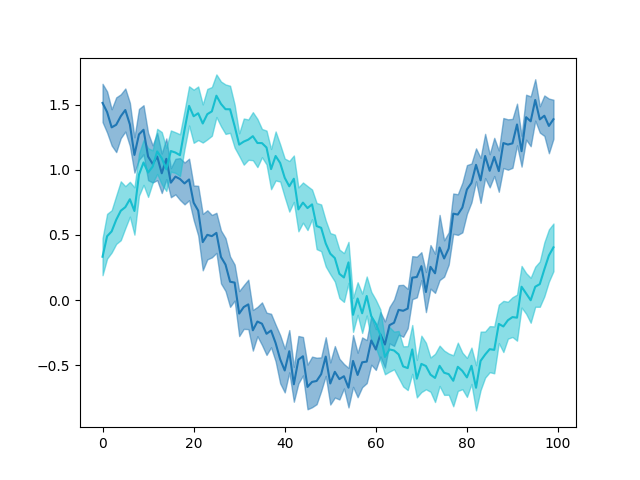
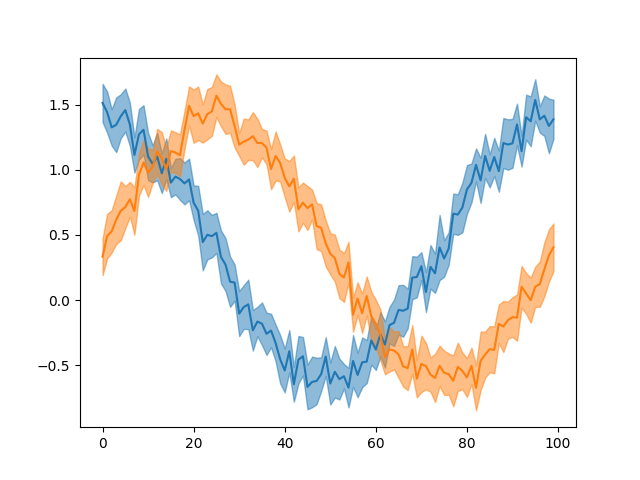
Optional color normalization in GroupedSeriesParade

Changed region(s): [[0.1562, 0.1562, 0.875, 0.8438]]

diff --git a/docs/searchindex.js b/docs/searchindex.js
@@ -1,1 +1,1 @@
-Search.setIndex({docnames:["data","groupedscalars","groupedseries","index","scalars","series","ungroupedscalars","ungroupedseries","utils"],envversion:{"sphinx.domains.c":2,"sphinx.domains.changeset":1,"sphinx.domains.citation":1,"sphinx.domains.cpp":3,"sphinx.domains.index":1,"sphinx.domains.javascript":2,"sphinx.domains.math":2,"sphinx.domains.python":2,"sphinx.domains.rst":2,"sphinx.domains.std":1,sphinx:56},filenames:["data.rst","groupedscalars.rst","groupedseries.rst","index.rst","scalars.rst","series.rst","ungroupedscalars.rst","ungroupedseries.rst","utils.rst"],objects:{"plotszoo.data":{DataCollection:[0,0,1,""],WandbData:[0,0,1,""]},"plotszoo.data.DataCollection":{align_series:[0,1,1,""],are_series_aligned:[0,1,1,""],create_categorical:[0,1,1,""],create_scalar_from_series:[0,1,1,""],dropna:[0,1,1,""],dropna_series:[0,1,1,""],fillna_series:[0,1,1,""],is_both:[0,1,1,""],is_empty:[0,1,1,""],is_scalars:[0,1,1,""],is_series:[0,1,1,""],rolling_series:[0,1,1,""],set_scalars:[0,1,1,""],set_series:[0,1,1,""]},"plotszoo.data.WandbData":{pull_scalars:[0,1,1,""],pull_series:[0,1,1,""]},"plotszoo.scalars":{ScalarsParallelCoordinates:[6,0,1,""],ScalarsScatterCumulative:[6,0,1,""]},"plotszoo.scalars.ScalarsParallelCoordinates":{plot:[6,1,1,""]},"plotszoo.scalars.ScalarsScatterCumulative":{plot:[6,1,1,""]},"plotszoo.scalars.grouped":{GroupedScalarsBarchart:[1,0,1,""]},"plotszoo.scalars.grouped.GroupedScalarsBarchart":{plot:[1,1,1,""]},"plotszoo.series":{SeriesParade:[7,0,1,""]},"plotszoo.series.SeriesParade":{plot:[7,1,1,""]},"plotszoo.series.grouped":{GroupedSeriesParade:[2,0,1,""]},"plotszoo.series.grouped.GroupedSeriesParade":{plot:[2,1,1,""]},"plotszoo.utils":{savefig:[8,3,1,""]},plotszoo:{utils:[8,2,0,"-"]}},objnames:{"0":["py","class","Python class"],"1":["py","method","Python method"],"2":["py","module","Python module"],"3":["py","function","Python function"]},objtypes:{"0":"py:class","1":"py:method","2":"py:module","3":"py:function"},terms:{"100":[2,7],"class":[0,1,2,4,5,6,7],"default":[0,1,2,6,7,8],"function":[0,1,3,6,7],"import":[1,2,6,7],"int":1,"new":0,"return":0,"true":[0,1,6,8],The:[0,1,2,7,8],Useful:2,Will:0,__file__:[1,2,6,7],about:0,accord:0,adjust_whitespac:6,adjust_withspac:6,after:[0,2],against:6,agg_fn:0,algin:0,align:[0,2],align_seri:0,all:[0,3,7],alpha:2,also:0,amax:6,append:[2,7],appli:0,are_series_align:0,area:2,arg:[0,1,2,6,7,8],argument:0,attribut:0,axes:[1,2,6,7],axi:1,barchart:1,base:0,blue:6,both:[0,2],cach:0,cache_dir:0,call:[0,6,8],can:[3,4,5,6],categor:0,certain:2,chart:6,check:0,choos:0,cmap:[2,6,7],cointain:0,cointan:0,collect:0,color:[6,7],color_fn:7,colormap:[2,6,7],column:[0,1,2,6,7],common:0,comput:7,confid:[1,2],contain:0,content:[3,4,5],convert:1,coordin:6,correspond:0,cos:[0,2,7],creat:[0,8],create_categor:0,create_dir_tre:8,create_scalar_from_seri:0,cumul:6,cumulative_fn:6,data:[1,2,3,6,7],datacollect:[0,1,2,6,7],datafram:[0,1,2,6,7],dataset:[1,6],dict:0,directori:[0,8],dirnam:[1,2,6,7],disabl:0,discard:0,divid:[4,5],doe:8,drop:0,dropna:0,dropna_seri:0,each:[0,1,2],effect:6,empti:0,exampl:[0,1,2,6,7,8],exist:8,fals:[0,1,6],featur:1,feature_nam:[1,6],field:6,fig:[1,2,6,7,8],figur:8,filenam:8,fill:0,fillna_seri:0,filter:0,find:[3,4,5],finish:0,first:8,fixed_color:7,flatten:1,folder:8,forc:0,force_upd:0,from:[0,1,6,7],get:3,goal:2,goal_typ:2,grid:1,grope:[4,5],group:[3,4,5,6],groupedscalarsbarchart:1,groupedseriesparad:2,have:[0,6],here:[0,1,2,3,4,5,6,7,8],imag:[1,2,6,7],index:[0,1,2,3,6,7],indic:[0,1,2],inform:3,input:0,interv:[1,2],iri:[1,6],is_both:0,is_empti:0,is_scalar:0,is_seri:0,join:[1,2,6,7],just:[4,5],kei:0,keyword:0,kwarg:[0,8],lambda:[0,1,7],len:[2,6,7],line:1,linspac:[2,6,7],list:[1,2,6],load:3,load_iri:[1,6],longest:0,make:6,matplotlib:[1,2,6,7,8],max:[2,6],maximum:6,mean:[0,1,2,6],mean_reward:0,method:0,min:[0,2],minimum:6,modul:3,mongodb:0,must:[0,6],name:0,nan:0,nbin:1,nearest:0,need:3,new_column:0,nice:8,noise_level:[2,7],noisy_co:[2,7],noisy_sin:[2,7],none:[0,1,2,6,7],norm:6,num_seri:[2,7],number:[1,6],numpi:[1,2,6,7],one:[0,7],ones:[4,5],organ:0,page:3,panda:[0,1,2,6,7],parad:[2,7],parallel:6,parallel_plot:6,path:[1,2,6,7],pdf:6,plot:[3,8],plotszoo:[0,1,2,4,5,6,7,8],plt:[1,2,6,7,8],png:[1,2,6,7,8],ppf:6,prettier:6,probabl:0,process:2,project:0,provid:0,pull:0,pull_scalar:0,pull_seri:0,pyplot:[1,2,6,7],python:0,queri:0,rand:[2,7],random:[2,7],rang:[2,7],reach:2,realpath:[1,2,6,7],reindex:0,requir:[2,6],reset:0,respect:6,result:0,retriv:0,reward:0,rightmost:6,roll:0,rolling_seri:0,row:0,run:[0,6],same:[0,6],sampl:[2,7],save:8,savefig:[1,2,6,7,8],savefig_kwarg:8,scalar:[0,2,3,7],scalar_nam:0,scalarsparallelcoordin:6,scalarsscattercumul:6,scatter:6,scatter_cumul:6,scatterplot:6,scipi:6,search:3,seed:[2,7],seri:[0,3],series_parad:[2,7],seriesparad:7,servic:0,set:[0,6],set_scalar:[0,1,2,6,7],set_seri:[0,2,7],set_size_inch:[1,6],share:0,sharei:6,shortest:0,show:[1,6],side:6,sin:[0,2,7],sklearn:[1,6],sobsitut:0,some:[1,2,4,5,6,7,8],sort:6,start:3,start_tim:0,stat:6,state:0,stochast:2,stop:2,store:0,strategi:0,subplot:[1,2,6,7],subplots_adjust:6,sum:6,tab10:[2,6,7],tan:0,target:[1,2,6],target_nam:1,text:1,textual:0,thei:8,them:[4,5],thi:2,tick:[1,6],time:0,timestamp:0,titl:1,tree:8,two:0,type:[0,2,7],unalign:0,ungroup:[3,4,5],updat:0,use:[0,2,6,7],used:6,usernam:0,using:[0,6],util:3,valu:[0,2,7],verbos:0,vertic:1,wandb:0,wandbdata:0,welcom:3,well:1,when:2,where:0,which:0,window:0,without:[4,5],work:2,wspace:6,you:[3,4,5,6],yticks_fn:1,zip:1},titles:["Data loading","Plotting Grouped Scalars","Plotting Grouped Series","plotszoo\u2019s documentation","Plotting Scalars","Plotting Series","Plotting Ungrouped Scalars","Plotting Ungrouped Series","Utility Functions"],titleterms:{"function":8,data:0,document:3,group:[1,2],indic:3,load:0,plot:[1,2,4,5,6,7],plotszoo:3,scalar:[1,4,6],seri:[2,5,7],tabl:3,ungroup:[6,7],util:8}})
+Search.setIndex({docnames:["data","groupedscalars","groupedseries","index","scalars","series","ungroupedscalars","ungroupedseries","utils"],envversion:{"sphinx.domains.c":2,"sphinx.domains.changeset":1,"sphinx.domains.citation":1,"sphinx.domains.cpp":3,"sphinx.domains.index":1,"sphinx.domains.javascript":2,"sphinx.domains.math":2,"sphinx.domains.python":2,"sphinx.domains.rst":2,"sphinx.domains.std":1,sphinx:56},filenames:["data.rst","groupedscalars.rst","groupedseries.rst","index.rst","scalars.rst","series.rst","ungroupedscalars.rst","ungroupedseries.rst","utils.rst"],objects:{"plotszoo.data":{DataCollection:[0,0,1,""],WandbData:[0,0,1,""]},"plotszoo.data.DataCollection":{align_series:[0,1,1,""],are_series_aligned:[0,1,1,""],create_categorical:[0,1,1,""],create_scalar_from_series:[0,1,1,""],dropna:[0,1,1,""],dropna_series:[0,1,1,""],fillna_series:[0,1,1,""],is_both:[0,1,1,""],is_empty:[0,1,1,""],is_scalars:[0,1,1,""],is_series:[0,1,1,""],rolling_series:[0,1,1,""],set_scalars:[0,1,1,""],set_series:[0,1,1,""]},"plotszoo.data.WandbData":{pull_scalars:[0,1,1,""],pull_series:[0,1,1,""]},"plotszoo.scalars":{ScalarsParallelCoordinates:[6,0,1,""],ScalarsScatterCumulative:[6,0,1,""]},"plotszoo.scalars.ScalarsParallelCoordinates":{plot:[6,1,1,""]},"plotszoo.scalars.ScalarsScatterCumulative":{plot:[6,1,1,""]},"plotszoo.scalars.grouped":{GroupedScalarsBarchart:[1,0,1,""]},"plotszoo.scalars.grouped.GroupedScalarsBarchart":{plot:[1,1,1,""]},"plotszoo.series":{SeriesParade:[7,0,1,""]},"plotszoo.series.SeriesParade":{plot:[7,1,1,""]},"plotszoo.series.grouped":{GroupedSeriesParade:[2,0,1,""]},"plotszoo.series.grouped.GroupedSeriesParade":{plot:[2,1,1,""]},"plotszoo.utils":{savefig:[8,3,1,""]},plotszoo:{utils:[8,2,0,"-"]}},objnames:{"0":["py","class","Python class"],"1":["py","method","Python method"],"2":["py","module","Python module"],"3":["py","function","Python function"]},objtypes:{"0":"py:class","1":"py:method","2":"py:module","3":"py:function"},terms:{"100":[2,7],"class":[0,1,2,4,5,6,7],"default":[0,1,2,6,7,8],"function":[0,1,3,6,7],"import":[1,2,6,7],"int":1,"new":0,"return":0,"true":[0,1,6,8],The:[0,1,2,7,8],Useful:2,Will:0,__file__:[1,2,6,7],about:0,accord:0,adjust_whitespac:6,adjust_withspac:6,after:[0,2],against:6,agg_fn:0,algin:0,align:[0,2],align_seri:0,all:[0,3,7],alpha:2,also:0,amax:6,append:[2,7],appli:0,are_series_align:0,area:2,arg:[0,1,2,6,7,8],argument:0,attribut:0,axes:[1,2,6,7],axi:1,barchart:1,base:0,befor:2,blue:6,both:[0,2],cach:0,cache_dir:0,call:[0,2,6,8],can:[3,4,5,6],categor:0,certain:2,chart:6,check:0,choos:0,cmap:[2,6,7],cointain:0,cointan:0,collect:0,color:[6,7],color_fn:7,colormap:[2,6,7],column:[0,1,2,6,7],common:0,comput:7,confid:[1,2],contain:0,content:[3,4,5],convert:1,coordin:6,correspond:0,cos:[0,2,7],creat:[0,8],create_categor:0,create_dir_tre:8,create_scalar_from_seri:0,cumul:6,cumulative_fn:6,data:[1,2,3,6,7],datacollect:[0,1,2,6,7],datafram:[0,1,2,6,7],dataset:[1,6],dict:0,directori:[0,8],dirnam:[1,2,6,7],disabl:0,discard:0,divid:[4,5],doe:8,drop:0,dropna:0,dropna_seri:0,each:[0,1,2],effect:6,empti:0,exampl:[0,1,2,6,7,8],exist:8,fals:[0,1,2,6],featur:1,feature_nam:[1,6],field:6,fig:[1,2,6,7,8],figur:8,filenam:8,fill:0,fillna_seri:0,filter:0,find:[3,4,5],finish:0,first:8,fixed_color:7,flatten:1,folder:8,forc:0,force_upd:0,from:[0,1,6,7],get:3,goal:2,goal_typ:2,grid:1,grope:[4,5],group:[3,4,5,6],groupedscalarsbarchart:1,groupedseriesparad:2,have:[0,6],here:[0,1,2,3,4,5,6,7,8],imag:[1,2,6,7],index:[0,1,2,3,6,7],indic:[0,1,2],inform:3,input:0,interv:[1,2],iri:[1,6],is_both:0,is_empti:0,is_scalar:0,is_seri:0,join:[1,2,6,7],just:[4,5],kei:0,keyword:0,kwarg:[0,8],lambda:[0,1,7],len:[2,6,7],line:1,linspac:[2,6,7],list:[1,2,6],load:3,load_iri:[1,6],longest:0,make:6,matplotlib:[1,2,6,7,8],max:[2,6],maximum:6,mean:[0,1,2,6],mean_reward:0,method:0,min:[0,2],minimum:6,modul:3,mongodb:0,must:[0,6],name:0,nan:0,nbin:1,nearest:0,need:3,new_column:0,nice:8,noise_level:[2,7],noisy_co:[2,7],noisy_sin:[2,7],none:[0,1,2,6,7],norm:6,normalize_color:2,num_seri:[2,7],number:[1,6],numpi:[1,2,6,7],one:[0,7],ones:[4,5],organ:0,page:3,panda:[0,1,2,6,7],parad:[2,7],parallel:6,parallel_plot:6,path:[1,2,6,7],pdf:6,plot:[3,8],plotszoo:[0,1,2,4,5,6,7,8],plt:[1,2,6,7,8],png:[1,2,6,7,8],ppf:6,prettier:6,probabl:0,process:2,project:0,provid:0,pull:0,pull_scalar:0,pull_seri:0,pyplot:[1,2,6,7],python:0,queri:0,rand:[2,7],random:[2,7],rang:[2,7],reach:2,realpath:[1,2,6,7],reindex:0,requir:[2,6],reset:0,respect:6,result:0,retriv:0,reward:0,rightmost:6,roll:0,rolling_seri:0,row:0,run:[0,6],same:[0,6],sampl:[2,7],save:8,savefig:[1,2,6,7,8],savefig_kwarg:8,scalar:[0,2,3,7],scalar_nam:0,scalarsparallelcoordin:6,scalarsscattercumul:6,scatter:6,scatter_cumul:6,scatterplot:6,scipi:6,search:3,seed:[2,7],seri:[0,3],series_parad:[2,7],seriesparad:7,servic:0,set:[0,6],set_scalar:[0,1,2,6,7],set_seri:[0,2,7],set_size_inch:[1,6],share:0,sharei:6,shortest:0,show:[1,6],side:6,sin:[0,2,7],sklearn:[1,6],sobsitut:0,some:[1,2,4,5,6,7,8],sort:6,start:3,start_tim:0,stat:6,state:0,stochast:2,stop:2,store:0,strategi:0,subplot:[1,2,6,7],subplots_adjust:6,sum:6,tab10:[2,6,7],tan:0,target:[1,2,6],target_nam:1,text:1,textual:0,thei:8,them:[4,5],thi:2,tick:[1,6],time:0,timestamp:0,titl:1,tree:8,two:0,type:[0,2,7],unalign:0,ungroup:[3,4,5],updat:0,use:[0,2,6,7],used:6,usernam:0,using:[0,2,6],util:3,valu:[0,2,7],verbos:0,vertic:1,wandb:0,wandbdata:0,welcom:3,well:1,when:2,where:0,which:0,window:0,without:[4,5],work:2,wspace:6,you:[3,4,5,6],yticks_fn:1,zip:1},titles:["Data loading","Plotting Grouped Scalars","Plotting Grouped Series","plotszoo\u2019s documentation","Plotting Scalars","Plotting Series","Plotting Ungrouped Scalars","Plotting Ungrouped Series","Utility Functions"],titleterms:{"function":8,data:0,document:3,group:[1,2],indic:3,load:0,plot:[1,2,4,5,6,7],plotszoo:3,scalar:[1,4,6],seri:[2,5,7],tabl:3,ungroup:[6,7],util:8}})

diff --git a/docs/groupedseries.html b/docs/groupedseries.html
@@ -220,7 +220,7 @@ This plot requires both scalars and series and requires aligned series</p>
 <a class="reference internal image-reference" href="_images/GroupedSeriesParade.png"><img alt="_images/GroupedSeriesParade.png" src="_images/GroupedSeriesParade.png" style="width: 600px;" /></a>
 <dl class="py method">
 <dt id="plotszoo.series.grouped.GroupedSeriesParade.plot">
-<code class="sig-name descname">plot</code><span class="sig-paren">(</span><em class="sig-param"><span class="n">ax</span></em>, <em class="sig-param"><span class="n">cmap</span><span class="o">=</span><span class="default_value">'tab10'</span></em>, <em class="sig-param"><span class="n">alpha</span><span class="o">=</span><span class="default_value">0.5</span></em>, <em class="sig-param"><span class="n">goal</span><span class="o">=</span><span class="default_value">None</span></em>, <em class="sig-param"><span class="n">goal_type</span><span class="o">=</span><span class="default_value">'max'</span></em><span class="sig-paren">)</span><a class="headerlink" href="#plotszoo.series.grouped.GroupedSeriesParade.plot" title="Permalink to this definition">¶</a></dt>
+<code class="sig-name descname">plot</code><span class="sig-paren">(</span><em class="sig-param"><span class="n">ax</span></em>, <em class="sig-param"><span class="n">cmap</span><span class="o">=</span><span class="default_value">'tab10'</span></em>, <em class="sig-param"><span class="n">normalize_color</span><span class="o">=</span><span class="default_value">False</span></em>, <em class="sig-param"><span class="n">alpha</span><span class="o">=</span><span class="default_value">0.5</span></em>, <em class="sig-param"><span class="n">goal</span><span class="o">=</span><span class="default_value">None</span></em>, <em class="sig-param"><span class="n">goal_type</span><span class="o">=</span><span class="default_value">'max'</span></em><span class="sig-paren">)</span><a class="headerlink" href="#plotszoo.series.grouped.GroupedSeriesParade.plot" title="Permalink to this definition">¶</a></dt>
 <dd><p>Plot the grouped series parade</p>
 <dl class="simple">
 <dt>Args:</dt><dd><dl class="field-list simple">
@@ -230,14 +230,17 @@ This plot requires both scalars and series and requires aligned series</p>
 <dt class="field-even">cmap</dt>
 <dd class="field-even"><p><code class="xref py py-mod docutils literal notranslate"><span class="pre">matplotlib</span></code> colormap to use (Default: <code class="docutils literal notranslate"><span class="pre">tab10</span></code>)</p>
 </dd>
-<dt class="field-odd">alpha</dt>
-<dd class="field-odd"><p>Alpha for the confidence intervals area</p>
+<dt class="field-odd">normalize_color</dt>
+<dd class="field-odd"><p>Call <code class="xref py py-mod docutils literal notranslate"><span class="pre">matplotlib</span></code> before using colormap (Default: <code class="docutils literal notranslate"><span class="pre">False</span></code>)</p>
 </dd>
-<dt class="field-even">goal</dt>
-<dd class="field-even"><p>Stop plotting after a certain goal is reached for each series (Default <code class="docutils literal notranslate"><span class="pre">None</span></code>)</p>
+<dt class="field-even">alpha</dt>
+<dd class="field-even"><p>Alpha for the confidence intervals area</p>
 </dd>
-<dt class="field-odd">goal_type</dt>
-<dd class="field-odd"><p>The goal type (<code class="docutils literal notranslate"><span class="pre">max</span></code> or <code class="docutils literal notranslate"><span class="pre">min</span></code>)</p>
+<dt class="field-odd">goal</dt>
+<dd class="field-odd"><p>Stop plotting after a certain goal is reached for each series (Default <code class="docutils literal notranslate"><span class="pre">None</span></code>)</p>
+</dd>
+<dt class="field-even">goal_type</dt>
+<dd class="field-even"><p>The goal type (<code class="docutils literal notranslate"><span class="pre">max</span></code> or <code class="docutils literal notranslate"><span class="pre">min</span></code>)</p>
 </dd>
 </dl>
 </dd>

diff --git a/plotszoo/series/grouped/parade.py b/plotszoo/series/grouped/parade.py
@@ -27,13 +27,14 @@ class GroupedSeriesParade(SeriesPlot):
         self.groups = groups
         self.target = target
     
-    def plot(self, ax, cmap="tab10", alpha=0.5, goal=None, goal_type="max"):
+    def plot(self, ax, cmap="tab10", normalize_color=False, alpha=0.5, goal=None, goal_type="max"):
         r"""
         Plot the grouped series parade
 
         Args:
             :ax: :mod:`matplotlib` axes to plot to
             :cmap: :mod:`matplotlib` colormap to use (Default: ``tab10``)
+            :normalize_color: Call :mod:`matplotlib` before using colormap (Default: ``False``)
             :alpha: Alpha for the confidence intervals area
             :goal: Stop plotting after a certain goal is reached for each series (Default ``None``)
             :goal_type: The goal type (``max`` or ``min``)
@@ -78,6 +79,10 @@ class GroupedSeriesParade(SeriesPlot):
                 mean[goal_x+1:] = float("NaN")
                 ci[goal_x+1:] = float("NaN")
             
-            ax.plot(index, mean, c=cmap(norm(i)), label=group)
-            ax.fill_between(index, mean+ci, mean-ci, color=cmap(norm(i)), alpha=alpha)
+            if normalize_color:
+                color = cmap(norm(i))
+            else:
+                color = cmap(i)
+            ax.plot(index, mean, c=color, label=group)
+            ax.fill_between(index, mean+ci, mean-ci, color=color, alpha=alpha)
         
